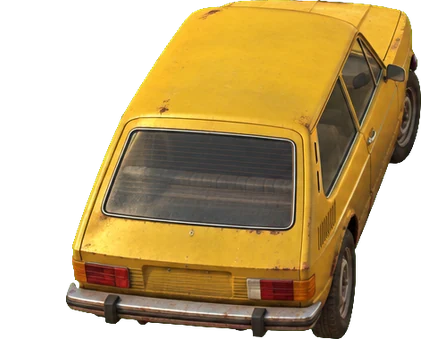
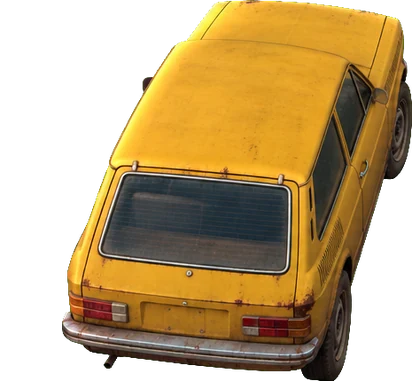
Carros da avenida menores, no ângulo da faixa, em fila e com rodas girando
- Brasília (frente e traseira) e Uno (traseira) desenhados de novo no
  Figma com menos giro: todas as vistas medem entre 16,8° e 18,5°, contra
  18° da faixa.
- Carros da avenida em escala própria (AVENIDA.escala 0,95): cabem na
  faixa de 2,6 m.
- Fila na faixa: quem vem atrás de um carro mais lento freia e mantém
  2,5 m (antes um passava por dentro do outro).
- Rodas girando: tools/rodas-carros.py gera quatro quadros de cada roda
  visível (gira só os pixels de pneu e aro); o quadro avança com os
  metros andados.

Claude-Session: https://claude.ai/code/session_01V3nfXgj3At2PPcBsXwjYXU

diff --git a/prototype/src/render.js b/prototype/src/render.js
@@ -1,6 +1,6 @@
 // Renderização em Canvas 2D. "Arena cinza" da Fase 0: formas simples, mas com
 // silhuetas distintas por família, para testar leitura em tela pequena.
-import { ENEMIES, WAKE, GORE, CENARIO, SOMBRA } from './config.js';
+import { ENEMIES, WAKE, GORE, CENARIO, SOMBRA, AVENIDA } from './config.js';
 import { images, SpriteCache, crowdImage, crowdAnim, walkReady, CROWD_WALK_OPTS, enemyWalkOpts, attackOpts, POSE_OPTS, ENEMY_ART, ICON_ART, drawFit, ATLAS, atlasRow } from './sprites.js';
 import { OrlaLayer, drawImageProp, drawTallDecor } from './mapa.js';
 import { drawCenario, cenarioInRange } from './render_cenario.js';
@@ -234,8 +234,18 @@ export class Renderer {
           ctx.ellipse(pt.x + sx * 0.5, pt.y - o.len * ppu * cam.k * 0.5 + sy * 0.5, o.wid * ppu * 0.55 + sx * 0.4, o.len * ppu * cam.k * 0.55, 0, 0, Math.PI * 2);
           ctx.fill();
           if (im) {
-            const s = (ppu / 128) * CENARIO.carros.escala;
-            ctx.drawImage(im, pt.x - (im.width * s) / 2, pt.y - im.height * s, im.width * s, im.height * s);
+            const s = (ppu / 128) * AVENIDA.escala;
+            const ox = pt.x - (im.width * s) / 2;
+            const oy = pt.y - im.height * s;
+            ctx.drawImage(im, ox, oy, im.width * s, im.height * s);
+            // rodas girando: o quadro avança com os metros andados
+            const vista = `${o.modelo}_${o.sentido > 0 ? 'sul' : 'norte'}`;
+            const R = AVENIDA.rodas;
+            const atlas = images[`trafego_${vista}_rodas`];
+            if (atlas && R[vista]) {
+              const q = Math.floor((o.giro || 0) * R.quadrosPorM) % R.quadros;
+              for (const [rx, ry, rw, rh, ay] of R[vista]) ctx.drawImage(atlas, q * rw, ay, rw, rh, ox + rx * s, oy + ry * s, rw * s, rh * s);
+            }
           } else {
             ctx.fillStyle = '#7f8896';
             ctx.fillRect(pt.x - (o.wid * ppu) / 2, pt.y - o.len * ppu * cam.k - 1.4 * ppu, o.wid * ppu, o.len * ppu * cam.k + 1.4 * ppu);

diff --git a/prototype/src/game.js b/prototype/src/game.js
@@ -1394,7 +1394,7 @@ export class Game {
     const m = this.map;
     if (!w || m.avenidaX0 === undefined) return;
     const A = AVENIDA;
-    const E = CENARIO.carros.escala;
+    const E = A.escala;
     const p = this.player;
     const len = 4.0 * E;
     const wid = 1.8 * E;
@@ -1412,9 +1412,24 @@ export class Game {
       this.traffic.push({ x: f.x, y, faixa: i, sentido: f.sentido, v, len, wid, modelo: A.modelos[Math.floor(this.rng() * A.modelos.length)], warned: false });
     });
     const list = this.traffic;
+    // fila na faixa: quem vem atrás de um carro mais lento freia e mantém distância (não passa por dentro)
+    for (const c of list) {
+      let ahead = null;
+      for (const o of list) {
+        if (o === c || o.faixa !== c.faixa) continue;
+        const d = (o.y - c.y) * c.sentido; // > 0: o outro está na frente
+        if (d > 0 && (!ahead || d < (ahead.y - c.y) * c.sentido)) ahead = o;
+      }
+      c.vAtual = c.v;
+      if (ahead) {
+        const gap = (ahead.y - c.y) * c.sentido - (c.len + ahead.len) / 2;
+        if (gap < A.distanciaM) c.vAtual = Math.min(c.v, ahead.v * Math.max(0, gap / A.distanciaM));
+      }
+    }
     for (let i = list.length - 1; i >= 0; i--) {
       const c = list[i];
-      c.y += c.sentido * c.v * dt;
+      c.y += c.sentido * c.vAtual * dt;
+      c.giro = (c.giro || 0) + c.vAtual * dt; // metros andados: as rodas giram com isso
       if (Math.abs(c.y - p.y) > A.raioM + 6 || c.y < y0 || c.y > y1) {
         list[i] = list[list.length - 1];
         list.pop();

diff --git a/prototype/src/config.js b/prototype/src/config.js
@@ -180,6 +180,20 @@ export const AVENIDA = {
   hordaInvulnS: 1.2, // o mesmo inimigo só leva outro atropelamento depois disso (antes o chefe morria embaixo do carro)
   avisoM: 16, // carro vindo por trás, nessa distância, na faixa do Juninho: aviso
   modelos: ['fusca', 'brasilia', 'uno'],
+  // rodas girando (tools/rodas-carros.py): por vista, a caixa de cada roda na imagem do carro [x, y, w, h] e a
+  // linha dela no atlas (<carro>_<sentido>_rodas.webp, um quadro por coluna); quadrosPorM: quadros por metro andado
+  rodas: {
+    quadros: 4,
+    quadrosPorM: 3,
+    fusca_norte: [[268, 262, 109, 109, 0], [331, 79, 99, 99, 109]],
+    fusca_sul: [[278, 322, 92, 92, 0]],
+    brasilia_norte: [[271, 265, 113, 113, 0], [347, 81, 98, 98, 113]],
+    brasilia_sul: [[275, 309, 113, 113, 0], [354, 102, 89, 89, 113]],
+    uno_norte: [[274, 319, 109, 109, 0], [341, 100, 107, 107, 109]],
+    uno_sul: [[279, 348, 104, 104, 0], [344, 176, 105, 105, 104]],
+  },
+  distanciaM: 2.5, // distância mínima entre dois carros na mesma faixa
+  escala: 0.95, // tamanho dos carros da avenida (cabem na faixa de 2,6 m; os parados nas ruas usam CENARIO.carros.escala)
 };
 
 // Rota contínua (docs/design/CARREIRA_E_ROTA.md): a Orla tem fim; a escadaria do pé do morro abre no

diff --git a/prototype/src/sprites.js b/prototype/src/sprites.js
@@ -53,6 +53,12 @@ export const IMAGES = {
   trafego_brasilia_sul: 'assets/veiculos/brasilia_sul.webp',
   trafego_uno_norte: 'assets/veiculos/uno_norte.webp',
   trafego_uno_sul: 'assets/veiculos/uno_sul.webp',
+  trafego_fusca_norte_rodas: 'assets/veiculos/fusca_norte_rodas.webp',
+  trafego_fusca_sul_rodas: 'assets/veiculos/fusca_sul_rodas.webp',
+  trafego_brasilia_norte_rodas: 'assets/veiculos/brasilia_norte_rodas.webp',
+  trafego_brasilia_sul_rodas: 'assets/veiculos/brasilia_sul_rodas.webp',
+  trafego_uno_norte_rodas: 'assets/veiculos/uno_norte_rodas.webp',
+  trafego_uno_sul_rodas: 'assets/veiculos/uno_sul_rodas.webp',
   // objetos que o Juninho pega e arremessa (Figma, recortados); altura no chão em OBJ_ALTURA (config.js)
   obj_cadeira: 'assets/objetos/cadeira.webp',
   obj_mesa: 'assets/objetos/mesa.webp',

diff --git a/tools/rodas-carros.py b/tools/rodas-carros.py
@@ -1,0 +1,94 @@
+"""Quadros das rodas girando para os carros da avenida (prototype/assets/veiculos).
+
+Para cada vista (<carro>_<norte|sul>.webp), as rodas visíveis são elipses (pneu escuro) medidas à mão em
+ELIPSES. O conteúdo de cada roda gira em torno do eixo (a elipse vira círculo, gira, volta a ser elipse)
+em QUADROS passos de 90°/QUADROS (rodas de 4 furos se repetem a cada 90°). Saída: um atlas por vista,
+<carro>_<sentido>_rodas.webp, com uma linha por roda e uma coluna por quadro, e as medidas para
+RODAS em config.js (caixa de cada roda na imagem do carro e a linha dela no atlas).
+Uso: python3 -I tools/rodas-carros.py
+"""
+import json, math, os
+import numpy as np, cv2
+from PIL import Image
+
+RAIZ = os.path.dirname(os.path.dirname(os.path.abspath(__file__)))
+PASTA = os.path.join(RAIZ, 'prototype/assets/veiculos')
+QUADROS = 4
+# cx, cy, raio x, raio y, ângulo (graus), medidos na imagem de cada vista
+ELIPSES = {
+    'fusca_norte': [(322.9, 316.2, 17.4, 52.2, 15.7), (381.3, 129.1, 12.7, 47.4, 9.9)],
+    'fusca_sul': [(324.7, 368.4, 22.0, 43.9, 16.5)],
+    'brasilia_norte': [(328.0, 321.4, 20.2, 54.1, 7.9), (396.1, 130.5, 12.4, 46.8, 7.2)],
+    'brasilia_sul': [(331.7, 365.8, 17.6, 54.4, 15.6), (398.9, 147.0, 12.7, 42.4, 10.5)],
+    'uno_norte': [(328.2, 373.2, 17.0, 52.1, 5.7), (394.7, 154.2, 14.7, 51.2, 4.7)],
+    'uno_sul': [(330.8, 399.5, 16.7, 49.5, 12.6), (396.6, 228.1, 11.0, 50.0, 13.3)],
+}
+
+
+def eh_roda(px):
+    """Pixel de pneu ou aro: escuro, ou cinza sem cor e não muito claro; a lataria colorida ou branca fica fora."""
+    f = px[..., :3].astype(np.float32) / 255
+    mx, mn = f.max(-1), f.min(-1)
+    sat = np.where(mx > 1e-3, (mx - mn) / np.maximum(mx, 1e-3), 0)
+    return ((((mx < 0.42)) | ((sat < 0.3) & (mx < 0.8))) & (px[..., 3] > 128)).astype(np.float32)
+
+
+def quadro(img, e, giro):
+    cx, cy, rx, ry, ang = e
+    t = math.radians(ang)
+    R = np.array([[math.cos(t), -math.sin(t)], [math.sin(t), math.cos(t)]])
+    A = R @ np.diag([rx, ry])  # círculo unitário -> elipse
+    G = np.array([[math.cos(giro), -math.sin(giro)], [math.sin(giro), math.cos(giro)]])
+    M = A @ G @ np.linalg.inv(A)  # gira dentro da elipse
+    x0, y0 = int(cx - max(rx, ry) - 2), int(cy - max(rx, ry) - 2)
+    w = h = int(2 * max(rx, ry) + 5)
+    ys, xs = np.mgrid[y0:y0 + h, x0:x0 + w].astype(np.float32)
+    d = np.stack([xs - cx, ys - cy], -1) @ np.linalg.inv(M).T  # de onde vem cada pixel
+    mapx = (d[..., 0] + cx).astype(np.float32)
+    mapy = (d[..., 1] + cy).astype(np.float32)
+    f = img.astype(np.float32)
+    f[..., :3] *= f[..., 3:4] / 255
+    out = cv2.remap(f, mapx, mapy, cv2.INTER_LINEAR, borderMode=cv2.BORDER_CONSTANT, borderValue=(0, 0, 0, 0))
+    # só dentro da elipse e só onde há roda (pneu e aro: cinza ou escuro, sem a cor da lataria) tanto no
+    # pixel de destino quanto no de origem; o resto fica transparente (a imagem do carro aparece por baixo)
+    u = np.stack([xs - cx, ys - cy], -1) @ np.linalg.inv(A).T
+    r = np.sqrt((u ** 2).sum(-1))
+    dentro = np.clip((0.97 - r) / 0.08, 0, 1)
+    orig = img[y0:y0 + h, x0:x0 + w]
+    if orig.shape[:2] != (h, w):
+        pad = np.zeros((h, w, 4), np.uint8); pad[:orig.shape[0], :orig.shape[1]] = orig; orig = pad
+    rodaD = eh_roda(orig)
+    src = cv2.remap(img, mapx, mapy, cv2.INTER_NEAREST, borderMode=cv2.BORDER_CONSTANT, borderValue=(0, 0, 0, 0))
+    rodaO = eh_roda(src)
+    mask = (dentro * rodaD * rodaO)[..., None]
+    out *= mask
+    a = out[..., 3:4] / 255
+    rgb = np.where(a > 1e-4, out[..., :3] / np.maximum(a, 1e-4), 0)
+    return np.clip(np.concatenate([rgb, out[..., 3:4]], -1) + 0.5, 0, 255).astype(np.uint8), (x0, y0, w, h)
+
+
+def main():
+    meta = {}
+    for nome, els in ELIPSES.items():
+        img = np.array(Image.open(os.path.join(PASTA, f'{nome}.webp')).convert('RGBA'))
+        linhas, caixas = [], []
+        for e in els:
+            fs = []
+            for q in range(QUADROS):
+                p, caixa = quadro(img, e, math.radians(q * 90 / QUADROS))
+                fs.append(p)
+            linhas.append(np.concatenate(fs, 1)); caixas.append(caixa)
+        W = max(l.shape[1] for l in linhas)
+        atlas = np.zeros((sum(l.shape[0] for l in linhas), W, 4), np.uint8)
+        y = 0
+        rows = []
+        for l, c in zip(linhas, caixas):
+            atlas[y:y + l.shape[0], :l.shape[1]] = l
+            rows.append([c[0], c[1], c[2], c[3], y]); y += l.shape[0]
+        Image.fromarray(atlas).save(os.path.join(PASTA, f'{nome}_rodas.webp'), quality=90, method=6)
+        meta[nome] = rows
+    print(json.dumps({'quadros': QUADROS, 'rodas': meta}))
+
+
+if __name__ == '__main__':
+    main()

diff --git a/docs/DECISOES.md b/docs/DECISOES.md
@@ -35,7 +35,7 @@ Continua o registro do pacote de conceito (`docs/concept-v0.1/06_Decisoes_e_Ques
 | D29 | 07/11/2026 | Arte do cenário | Os objetos desenhados em código ficaram amadores (avaliação do autor) e saíram do jogo; no lugar ficam blocos simples até a arte chegar. A arte do cenário passa a ser gerada por IA de imagem no Figma pessoal do autor e recortada para o jogo. Teste: um fusca azul velho, gerado sem emblema (o da calota foi apagado no recorte), a pedido do autor; depois o fusca em 8 direções, uma Brasília amarela e um Uno branco com escada no teto, todos sem emblema e sorteados nas vagas, virados para os dois lados. Os formatos são reconhecíveis como os de modelos reais: revisar antes da loja, como em D17 | Teste aprovado para seguir pedido a pedido; cada imagem gasta créditos de IA do Figma |
 | D30 | 07/11/2026 | Organização da Orla | Pedido do autor, seguindo Copacabana: da esquerda para o mar, prédios, calçadão, avenida, ciclovia, areia e mar. A avenida corre ao longo da praia com quatro faixas e carros andando nos dois sentidos, que atropelam o Juninho e a horda (`AVENIDA` em config.js), com aviso para carro vindo por trás. As ruas transversais terminam na avenida. Os prédios entram depois, na borda esquerda. Bot com a avenida: 33% a 40% de vitórias, igual a antes | Feito no protótipo |
 | D31 | 07/11/2026 | Visual do mapa | O mapa parecia reto perto dos objetos com volume. Entre girar o mapa 45° (isométrico de verdade, refazendo a arte) e manter o mapa reto com profundidade no chão, o autor escolheu a segunda: sombras longas de fim de tarde, meio-fio com altura, escurecido na base, névoa no alto da tela (`SOMBRA`) | Feito no protótipo; o isométrico de verdade fica como opção |
-| D32 | 07/11/2026 | Giro do mapa | Pedido do autor: girar o mapa um pouco, sem chegar a 45°. O eixo da profundidade inclina 18° (projeção oblíqua: o calçadão, a avenida e a praia correm na diagonal, as ruas transversais continuam retas e o que está em pé continua em pé, sem refazer a arte). Começou em 10°; subiu para 18° porque é o ângulo em que a fachada das lojas dos prédios foi desenhada, e os prédios não encaixavam na rua (autor, 07/11). Os prédios foram desenhados de novo no Figma já nesse ângulo (projeção paralela: frente reta para a rua transversal, lateral das lojas quase em pé, junto da beira do calçadão) e entram inteiros, só na escala, sem estreitar nem entortar a imagem; casam com a câmera padrão de 55°. Os carros também foram redesenhados nesse ângulo: os da avenida desenhados já virados na direção da faixa (frente ou traseira, medidos entre 17° e 22° contra os 18° do chão; nada é girado no código); os parados nas ruas transversais de lado, todos virados para a esquerda (rua de mão única), com a traseira aparecendo na ponta da direita. Ajuste "Giro do mapa" de 0 a 25° para testar | Feito no protótipo |
+| D32 | 07/11/2026 | Giro do mapa | Pedido do autor: girar o mapa um pouco, sem chegar a 45°. O eixo da profundidade inclina 18° (projeção oblíqua: o calçadão, a avenida e a praia correm na diagonal, as ruas transversais continuam retas e o que está em pé continua em pé, sem refazer a arte). Começou em 10°; subiu para 18° porque é o ângulo em que a fachada das lojas dos prédios foi desenhada, e os prédios não encaixavam na rua (autor, 07/11). Os prédios foram desenhados de novo no Figma já nesse ângulo (projeção paralela: frente reta para a rua transversal, lateral das lojas quase em pé, junto da beira do calçadão) e entram inteiros, só na escala, sem estreitar nem entortar a imagem; casam com a câmera padrão de 55°. Os carros também foram redesenhados nesse ângulo: os da avenida desenhados já virados na direção da faixa (frente ou traseira, medidos entre 16,8° e 18,5° contra os 18° do chão; nada é girado no código), menores que os parados para caber na faixa de 2,6 m (`AVENIDA.escala`), com rodas girando (quadros gerados por `tools/rodas-carros.py`) e em fila: quem vem atrás de um carro mais lento freia e não passa por dentro dele; os parados nas ruas transversais de lado, todos virados para a esquerda (rua de mão única), com a traseira aparecendo na ponta da direita. Ajuste "Giro do mapa" de 0 a 25° para testar | Feito no protótipo |
 
 ## Pendentes
 
